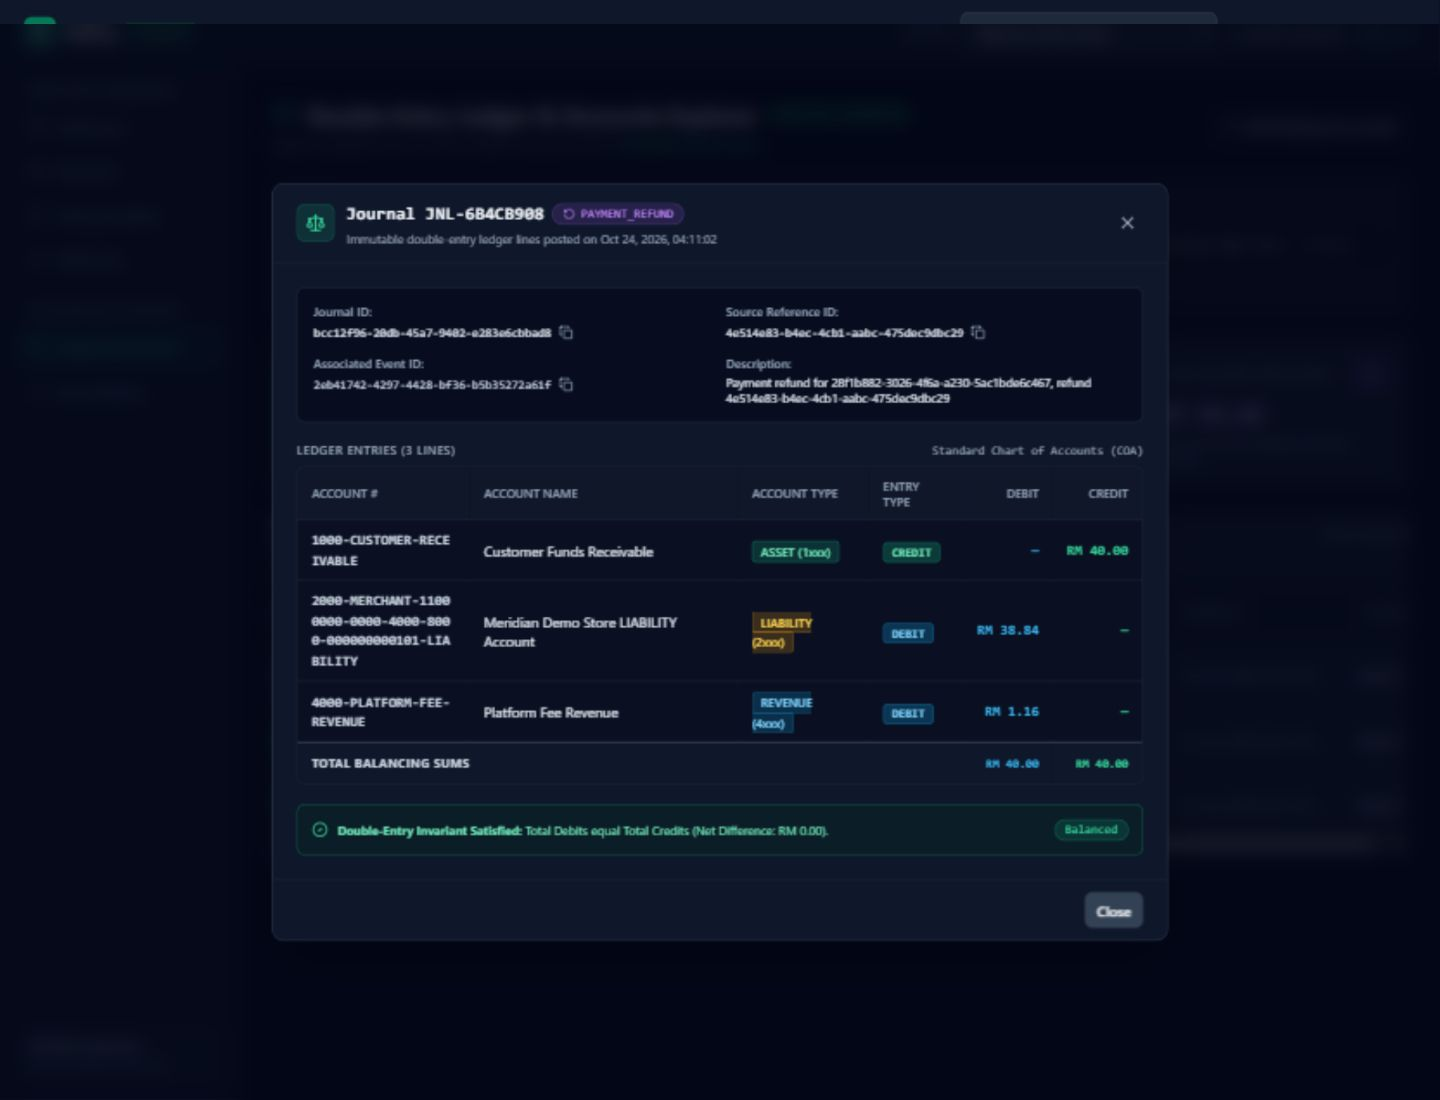
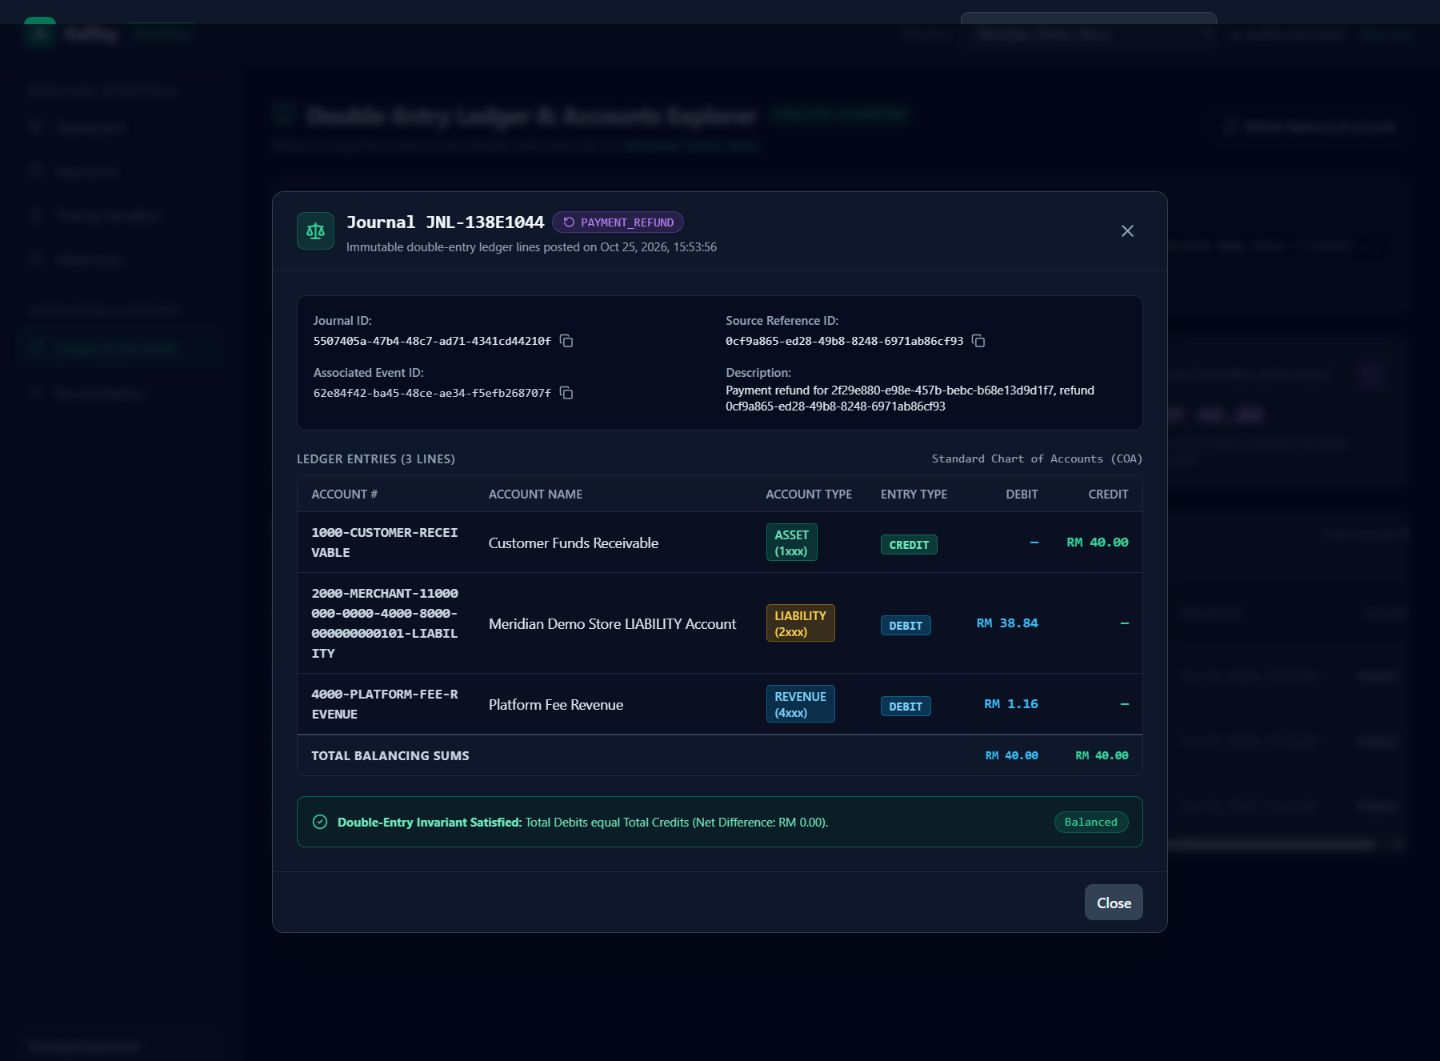
fix(ledger): align account type badge labels and codes

diff --git a/frontend/src/pages/Ledger/LedgerPage.tsx b/frontend/src/pages/Ledger/LedgerPage.tsx
@@ -118,32 +118,32 @@ const LedgerExplorer: React.FC = () => {
     switch (type) {
       case 'ASSET':
         return (
-          <span className="px-2 py-0.5 rounded text-xs font-semibold bg-emerald-500/20 text-emerald-300 border border-emerald-500/40">
-            ASSET (1xxx)
+          <span className="inline-flex flex-col items-start text-left whitespace-nowrap px-2 py-0.5 rounded text-xs font-semibold bg-emerald-500/20 text-emerald-300 border border-emerald-500/40">
+            <span>ASSET</span>{' '}<span>(1xxx)</span>
           </span>
         );
       case 'LIABILITY':
         return (
-          <span className="px-2 py-0.5 rounded text-xs font-semibold bg-amber-500/20 text-amber-300 border border-amber-500/40">
-            LIABILITY (2xxx)
+          <span className="inline-flex flex-col items-start text-left whitespace-nowrap px-2 py-0.5 rounded text-xs font-semibold bg-amber-500/20 text-amber-300 border border-amber-500/40">
+            <span>LIABILITY</span>{' '}<span>(2xxx)</span>
           </span>
         );
       case 'EQUITY':
         return (
-          <span className="px-2 py-0.5 rounded text-xs font-semibold bg-purple-500/20 text-purple-300 border border-purple-500/40">
-            EQUITY (3xxx)
+          <span className="inline-flex flex-col items-start text-left whitespace-nowrap px-2 py-0.5 rounded text-xs font-semibold bg-purple-500/20 text-purple-300 border border-purple-500/40">
+            <span>EQUITY</span>{' '}<span>(3xxx)</span>
           </span>
         );
       case 'REVENUE':
         return (
-          <span className="px-2 py-0.5 rounded text-xs font-semibold bg-sky-500/20 text-sky-300 border border-sky-500/40">
-            REVENUE (4xxx)
+          <span className="inline-flex flex-col items-start text-left whitespace-nowrap px-2 py-0.5 rounded text-xs font-semibold bg-sky-500/20 text-sky-300 border border-sky-500/40">
+            <span>REVENUE</span>{' '}<span>(4xxx)</span>
           </span>
         );
       case 'EXPENSE':
         return (
-          <span className="px-2 py-0.5 rounded text-xs font-semibold bg-rose-500/20 text-rose-300 border border-rose-500/40">
-            EXPENSE (5xxx)
+          <span className="inline-flex flex-col items-start text-left whitespace-nowrap px-2 py-0.5 rounded text-xs font-semibold bg-rose-500/20 text-rose-300 border border-rose-500/40">
+            <span>EXPENSE</span>{' '}<span>(5xxx)</span>
           </span>
         );
       default:
